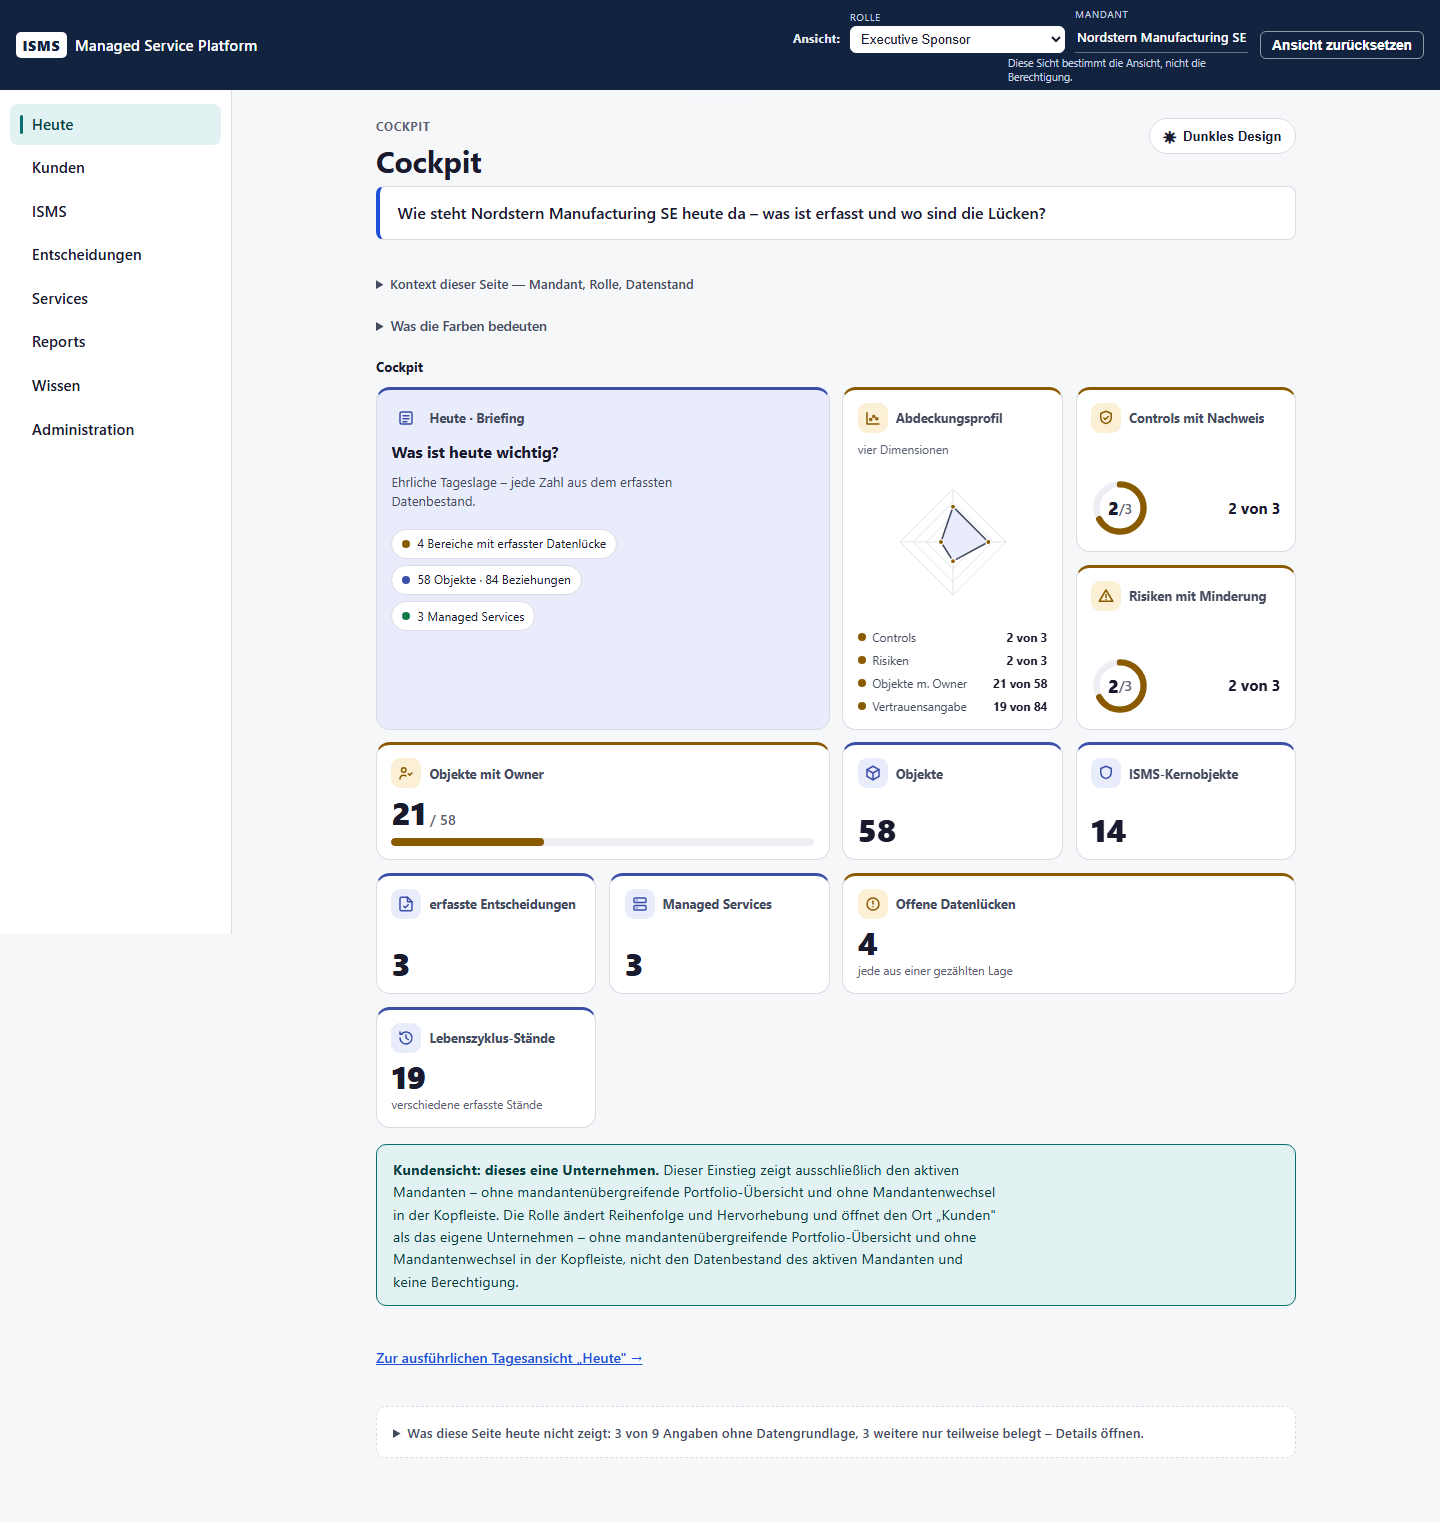
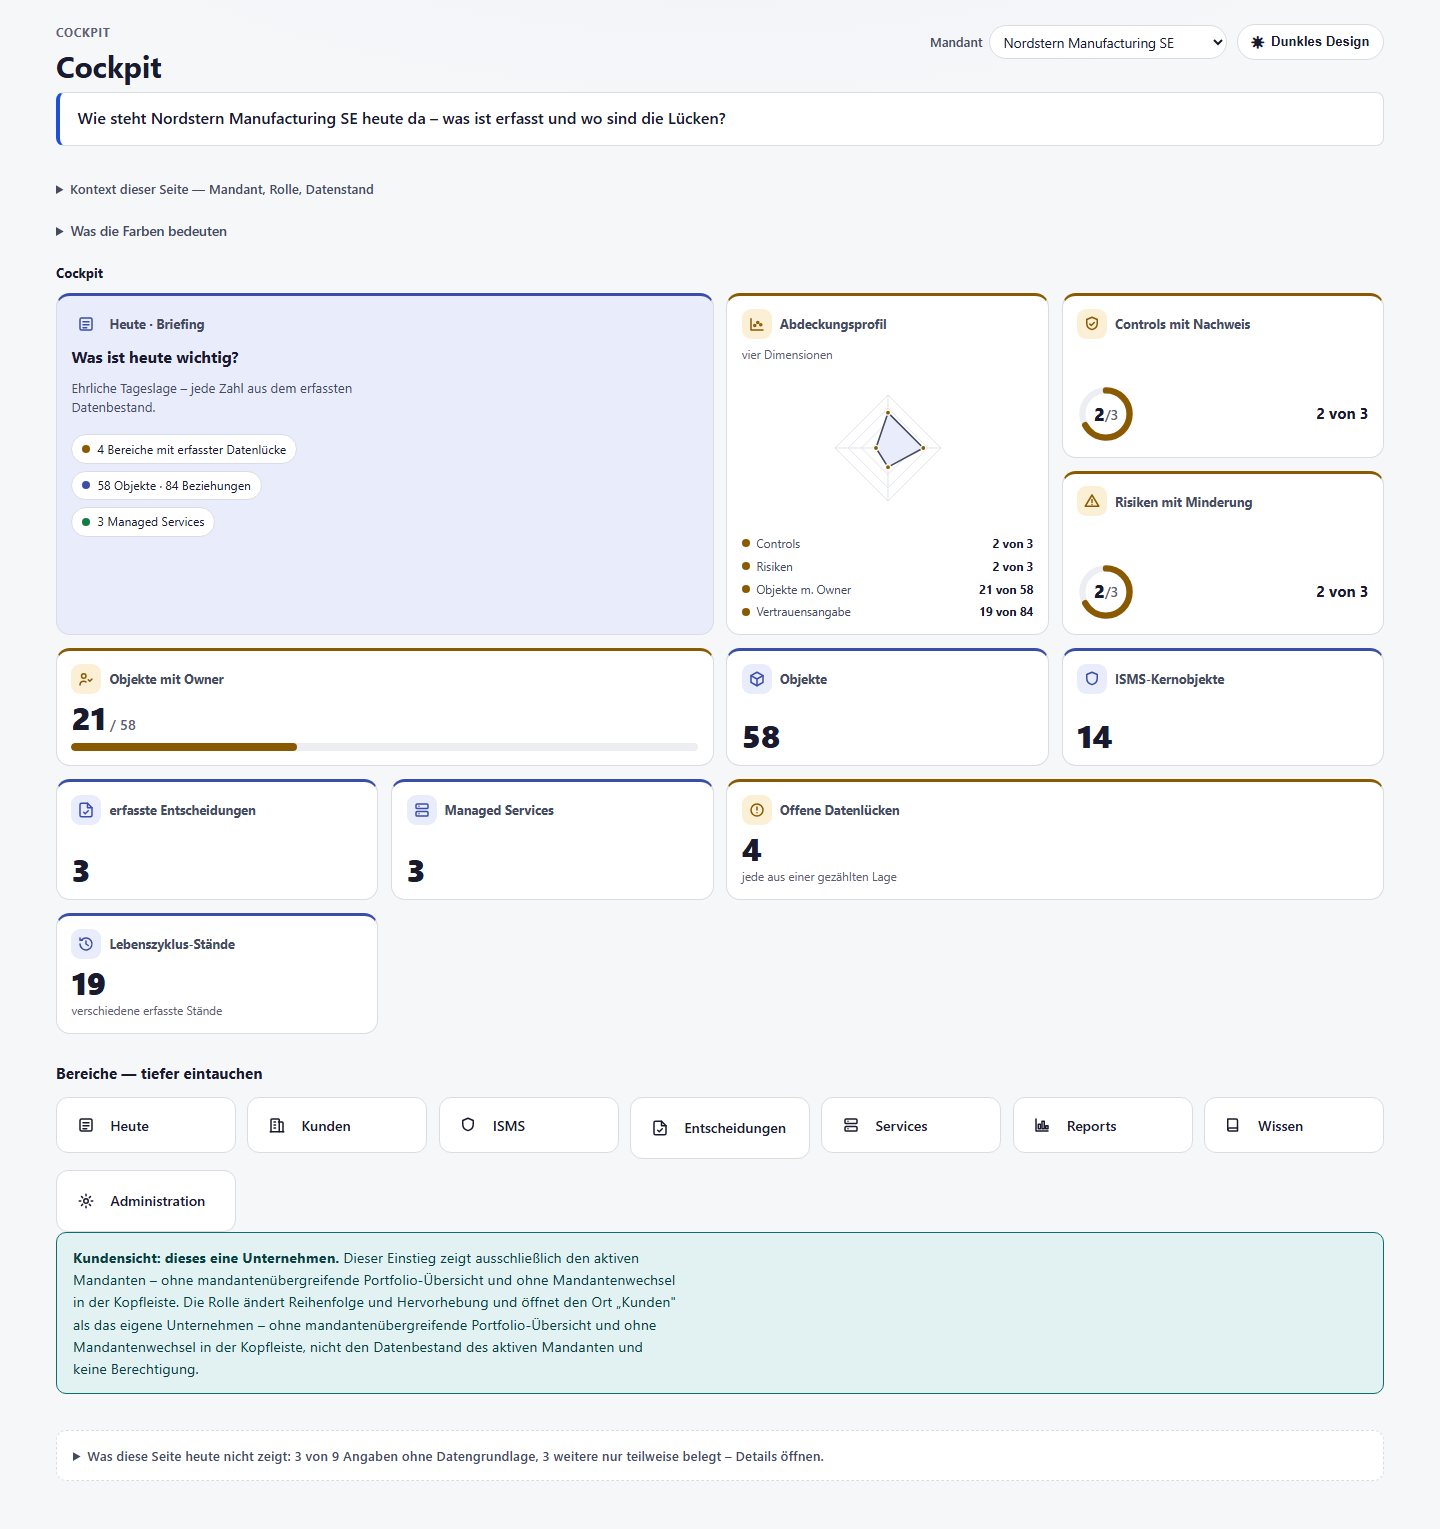
feat(web): DR-0017 - Cockpit eigenstaendig full-screen + 8 Bereich-Kacheln (Drill statt Sidebar)
Das Cockpit ist jetzt eigenstaendig (Shell-Bypass fuer /cockpit): kein Sidebar/Topbar-Rahmen, volle
Breite, eigener Kopf mit Mandant-Wechsler. Die acht Bereiche (Heute/Kunden/ISMS/Entscheidungen/Services/
Reports/Wissen/Administration) erscheinen als Kacheln zum Tieferklicken (orteFuerRolle, sphaerengerecht)
- Navigation laeuft uebers Eintauchen statt Sidebar (DR-0017). main-Wrapper fuer Semantik/qa. 835 Tests
+ axe 0 (cockpit/-eintauchen/-dunkel) gruen.

diff --git a/apps/web/components/cockpit/CockpitModulContent.tsx b/apps/web/components/cockpit/CockpitModulContent.tsx
@@ -17,6 +17,7 @@
  */
 import Link from 'next/link';
 import { useEffect, useRef, useState } from 'react';
+import type { ReactNode } from 'react';
 import type { DemoTenant } from '@isms/demo-seed';
 
 import { buildCockpitModul, type ModulKachel, type ModulKnoten } from '../../lib/cockpit/module';
@@ -26,9 +27,11 @@ import {
   type RecordingWave,
 } from '../../lib/heute/data';
 import { worldForRole, type DemoRole, type ExperienceWorld } from '../../lib/shell/roles';
+import { NAV_PLACES } from '../../lib/shell/places';
 import {
   kundenSicht,
   mandantenwechselSichtbar,
+  orteFuerRolle,
   rollenReichweiteSatz,
 } from '../../lib/shell/sphaere';
 import { CockpitLegende } from './CockpitLegende';
@@ -45,9 +48,12 @@ const COCKPIT_THEME_KEY = 'isms-cockpit-theme-v1';
 export function CockpitModulContent({
   role,
   tenant,
+  kopfZusatz,
 }: {
   role: DemoRole | null;
   tenant: DemoTenant;
+  /** Eigenständiger Kopf-Zusatz (z. B. Mandant-Wechsler) – von `CockpitModulView` gestellt. */
+  kopfZusatz?: ReactNode;
 }) {
   const [theme, setTheme] = useState<CockpitTheme>('hell');
   useEffect(() => {
@@ -80,7 +86,10 @@ export function CockpitModulContent({
           <p className="tw-eyebrow">Cockpit</p>
           <h1>Cockpit</h1>
         </div>
-        <ThemeSchalter theme={theme} onToggle={wechsleTheme} />
+        <div className="ck-kopf-rechts">
+          {kopfZusatz}
+          <ThemeSchalter theme={theme} onToggle={wechsleTheme} />
+        </div>
       </div>
 
       <p className="tw-question">
@@ -106,12 +115,9 @@ export function CockpitModulContent({
             </>
           )}
 
+          <BereichKacheln role={role} />
+
           <SphaerenNotiz role={role} />
-          <p className="ck-heute-link">
-            <Link className="tw-cta" href="/heute">
-              Zur ausführlichen Tagesansicht „Heute" →
-            </Link>
-          </p>
           <SeitenbausteineHinweis ort="cockpit" />
         </>
       ) : (
@@ -345,6 +351,49 @@ function KachelInhalt({ kachel }: { kachel: ModulKachel }) {
   );
 }
 
+/* -----------------------------------------------------------------------------
+ * Die acht Bereiche als Kacheln zum Tieferklicken (DR-0017): ersetzen die Sidebar –
+ * Navigation läuft übers Eintauchen. Ziel = der jeweilige Ort (sphärengerecht via
+ * `orteFuerRolle`); die Übergangsroute rendert vorerst die bestehende Bereichsseite.
+ * --------------------------------------------------------------------------- */
+
+const BEREICH_ICON: Readonly<Record<string, string>> = {
+  heute: 'ti-news',
+  kunden: 'ti-building',
+  isms: 'ti-shield',
+  entscheidungen: 'ti-file-check',
+  services: 'ti-server',
+  reports: 'ti-chart-bar',
+  wissen: 'ti-book',
+  administration: 'ti-settings',
+};
+
+function BereichKacheln({ role }: { role: DemoRole | null }) {
+  const orte = orteFuerRolle(NAV_PLACES, role);
+  return (
+    <section className="ck-bereiche" aria-labelledby="ck-bereiche-titel">
+      <h2 id="ck-bereiche-titel" className="ck-bereiche-titel">
+        Bereiche — tiefer eintauchen
+      </h2>
+      <ul className="ck-bereich-grid" aria-label="Bereiche zum Eintauchen">
+        {orte.map((ort) => (
+          <li key={ort.id}>
+            <Link className="ck-bereich-kachel" href={ort.href}>
+              <span className="ck-kachel-ic">
+                <IconGlyph name={BEREICH_ICON[ort.id] ?? 'ti-box'} />
+              </span>
+              <span className="ck-bereich-label">{ort.label}</span>
+              <span className="ck-bereich-mehr" aria-hidden="true">
+                öffnen →
+              </span>
+            </Link>
+          </li>
+        ))}
+      </ul>
+    </section>
+  );
+}
+
 /** Inline-SVG-Icons (dekorativ, aria-hidden) – selbst-enthalten, keine Font-Dependency. */
 function IconGlyph({ name }: { name: string }) {
   return (
@@ -466,6 +515,38 @@ function iconPaths(name: string) {
           <circle cx="12" cy="12" r="8" />
           <circle cx="12" cy="12" r="4" />
           <circle cx="12" cy="12" r="1" />
+        </>
+      );
+    case 'ti-building':
+      return (
+        <>
+          <path d="M4 21V5a1 1 0 0 1 1-1h9a1 1 0 0 1 1 1v16" />
+          <path d="M14 8h5a1 1 0 0 1 1 1v12" />
+          <path d="M3 21h18" />
+          <path d="M8 8h2M8 12h2M8 16h2" />
+        </>
+      );
+    case 'ti-chart-bar':
+      return (
+        <>
+          <path d="M4 4v16h16" />
+          <rect x="7" y="11" width="3" height="6" />
+          <rect x="12" y="7" width="3" height="10" />
+          <rect x="17" y="13" width="3" height="4" />
+        </>
+      );
+    case 'ti-book':
+      return (
+        <>
+          <path d="M5 4h11a2 2 0 0 1 2 2v14H7a2 2 0 0 1-2-2z" />
+          <path d="M5 18a2 2 0 0 1 2-2h11" />
+        </>
+      );
+    case 'ti-settings':
+      return (
+        <>
+          <circle cx="12" cy="12" r="3" />
+          <path d="M12 3v2M12 19v2M5 12H3M21 12h-2M6 6l1.5 1.5M16.5 16.5 18 18M6 18l1.5-1.5M16.5 7.5 18 6" />
         </>
       );
     default:

diff --git a/apps/web/components/cockpit/CockpitModulView.tsx b/apps/web/components/cockpit/CockpitModulView.tsx
@@ -1,49 +1,84 @@
 'use client';
 
 /**
- * „Cockpit" – modulares Ein-Screen-Dashboard (WP-034 Slice 3, DR-0016 Nachtrag 3).
+ * „Cockpit" – EIGENSTÄNDIGES, full-screen modulares Dashboard (WP-034 Slice 4, DR-0017).
  *
- * Sitzungsrahmen wie zuvor: Loading (vor Hydration), „kein Mandant gewählt" mit Link zur Anmeldung,
- * sonst das modulare Cockpit. Der Inhalt liegt in `CockpitModulContent` (ohne Session-Mock testbar).
- * KEIN neuer Hauptnav-Ort (06-D01): `/cockpit` hängt unter „Heute".
+ * Das Cockpit lebt bewusst OHNE Shell-Chrome (kein Sidebar-Reiter) – es bringt seinen eigenen,
+ * schlanken Rahmen mit: den Mandant-Wechsler im Kopf (statt der Shell-Topbar) und die acht
+ * Bereiche als Kacheln zum Tieferklicken (in `CockpitModulContent`). Navigation läuft nur über
+ * Eintauchen (DR-0017). Der Inhalt liegt in `CockpitModulContent` und ist ohne Session-Mock testbar.
  */
 import Link from 'next/link';
+import { DEMO_TENANTS } from '@isms/demo-seed';
 import { useSession } from '../shell/SessionProvider';
 import { CockpitModulContent } from './CockpitModulContent';
 
+function Rahmen({ children }: { children: React.ReactNode }) {
+  return <main className="ck-standalone">{children}</main>;
+}
+
 export function CockpitModulView() {
-  const { resolved, hydrated } = useSession();
+  const { resolved, session, hydrated, signIn } = useSession();
 
   if (!hydrated) {
     return (
-      <>
-        <p className="tw-eyebrow">Cockpit</p>
-        <h1>Cockpit</h1>
-        <p className="tw-muted">Lade Kontext …</p>
-      </>
+      <Rahmen>
+        <div className="ck-cockpit" data-ck-theme="hell">
+          <p className="tw-eyebrow">Cockpit</p>
+          <h1>Cockpit</h1>
+          <p className="tw-muted">Lade Kontext …</p>
+        </div>
+      </Rahmen>
     );
   }
 
   if (!resolved) {
     return (
-      <>
-        <p className="tw-eyebrow">Cockpit</p>
-        <h1>Cockpit</h1>
-        <div className="tw-empty" role="note">
-          <h2 style={{ marginTop: 0, border: 'none', padding: 0 }}>Kein Mandant gewählt</h2>
-          <p style={{ marginTop: 0 }}>
-            Es ist kein Mandant gewählt. Wählen Sie einen Mandanten, um das Cockpit zu öffnen – die
-            Rollenwahl ist danach optional in der Kopfleiste möglich.
-          </p>
-          <p style={{ marginBottom: 0 }}>
-            <Link className="tw-cta" href="/login">
-              Zur Anmeldung →
-            </Link>
-          </p>
+      <Rahmen>
+        <div className="ck-cockpit" data-ck-theme="hell">
+          <p className="tw-eyebrow">Cockpit</p>
+          <h1>Cockpit</h1>
+          <div className="tw-empty" role="note">
+            <h2 style={{ marginTop: 0, border: 'none', padding: 0 }}>Kein Mandant gewählt</h2>
+            <p style={{ marginTop: 0 }}>
+              Es ist kein Mandant gewählt. Wählen Sie einen Mandanten, um das Cockpit zu öffnen.
+            </p>
+            <p style={{ marginBottom: 0 }}>
+              <Link className="tw-cta" href="/login">
+                Zur Anmeldung →
+              </Link>
+            </p>
+          </div>
         </div>
-      </>
+      </Rahmen>
     );
   }
 
-  return <CockpitModulContent role={resolved.role} tenant={resolved.tenant} />;
+  // Mandant-Wechsler (ersetzt die Shell-Topbar): eigenständig, im Cockpit-Kopf, themengerecht.
+  const mandantWechsler = (
+    <label className="ck-mandant">
+      <span className="ck-mandant-label">Mandant</span>
+      <select
+        className="ck-mandant-select"
+        value={session?.tenantId ?? resolved.tenant.tenant_id}
+        onChange={(e) => signIn(session?.roleId ?? null, e.target.value)}
+      >
+        {DEMO_TENANTS.map((t) => (
+          <option key={t.tenant_id} value={t.tenant_id}>
+            {t.display_name}
+          </option>
+        ))}
+      </select>
+    </label>
+  );
+
+  return (
+    <Rahmen>
+      <CockpitModulContent
+        role={resolved.role}
+        tenant={resolved.tenant}
+        kopfZusatz={mandantWechsler}
+      />
+    </Rahmen>
+  );
 }

diff --git a/apps/web/app/globals.css b/apps/web/app/globals.css
@@ -2676,6 +2676,107 @@ summary {
   }
 }
 
+/* ===========================================================================
+ * Eigenständiges Cockpit (DR-0017): full-screen, ohne Shell-Chrome, volle Breite.
+ * ========================================================================= */
+.ck-standalone {
+  min-height: 100vh;
+}
+.ck-standalone .ck-cockpit {
+  min-height: 100vh;
+  border-radius: 0;
+  padding: 1.5rem clamp(1rem, 4vw, 3.5rem) 3rem;
+}
+.ck-kopf-rechts {
+  display: flex;
+  align-items: center;
+  gap: 0.6rem;
+  flex-wrap: wrap;
+}
+.ck-mandant {
+  display: inline-flex;
+  align-items: center;
+  gap: 0.4rem;
+  font-size: 0.8rem;
+  color: var(--ck-ink-soft);
+}
+.ck-mandant-label {
+  font-weight: 600;
+}
+.ck-mandant-select {
+  font: inherit;
+  font-size: 0.85rem;
+  padding: 0.4rem 0.6rem;
+  border-radius: 999px;
+  border: 1px solid var(--ck-border);
+  background: var(--ck-surface);
+  color: var(--ck-ink);
+  cursor: pointer;
+  max-width: 240px;
+}
+.ck-mandant-select:focus-visible {
+  outline: 3px solid var(--tw-focus);
+  outline-offset: 2px;
+}
+
+/* Die acht Bereiche als Kacheln zum Tieferklicken */
+.ck-bereiche {
+  margin: 1.75rem 0 0;
+}
+.ck-bereiche-titel {
+  font-size: 0.95rem;
+  margin: 0 0 0.75rem;
+  border: none;
+  padding: 0;
+  color: var(--ck-ink);
+}
+.ck-bereich-grid {
+  list-style: none;
+  margin: 0;
+  padding: 0;
+  display: grid;
+  grid-template-columns: repeat(auto-fill, minmax(168px, 1fr));
+  gap: 0.7rem;
+}
+.ck-bereich-kachel {
+  display: flex;
+  align-items: center;
+  gap: 0.6rem;
+  background: var(--ck-surface);
+  border: 1px solid var(--ck-border);
+  border-radius: 12px;
+  padding: 0.75rem 0.85rem;
+  color: var(--ck-ink);
+  text-decoration: none;
+  transition:
+    background 0.12s ease,
+    transform 0.12s ease,
+    border-color 0.12s ease;
+}
+.ck-bereich-kachel:hover {
+  background: var(--ck-surface-2);
+  transform: translateY(-1px);
+  border-color: var(--ck-info);
+}
+.ck-bereich-kachel:focus-visible {
+  outline: 3px solid var(--tw-focus);
+  outline-offset: 2px;
+}
+.ck-bereich-label {
+  font-size: 0.88rem;
+  font-weight: 600;
+}
+.ck-bereich-mehr {
+  margin-left: auto;
+  font-size: 0.72rem;
+  color: var(--tw-accent);
+  opacity: 0;
+  transition: opacity 0.12s ease;
+}
+.ck-bereich-kachel:hover .ck-bereich-mehr {
+  opacity: 1;
+}
+
 .ck-warnungen {
   margin: 1.75rem 0 0;
 }

diff --git a/apps/web/app/(shell)/layout.tsx b/apps/web/app/(shell)/layout.tsx
@@ -29,6 +29,13 @@ export default function ShellLayout({ children }: { children: ReactNode }) {
   const router = useRouter();
   const { resolved, session, hydrated, signIn, signOut } = useSession();
 
+  // DR-0017: Das Cockpit ist EIGENSTÄNDIG (full-screen, ohne Shell-Chrome) – es bringt seinen
+  // eigenen schlanken Rahmen mit (`CockpitModulView`). Die übrigen Orte behalten die Shell
+  // vorerst (Übergangsstand, bis der Dashboard-Drill sie ablöst). Die Route bleibt `/cockpit`.
+  if (pathname === '/cockpit') {
+    return <>{children}</>;
+  }
+
   return (
     <AppShell
       places={orteFuerRolle(NAV_PLACES, resolved?.role ?? null)}
